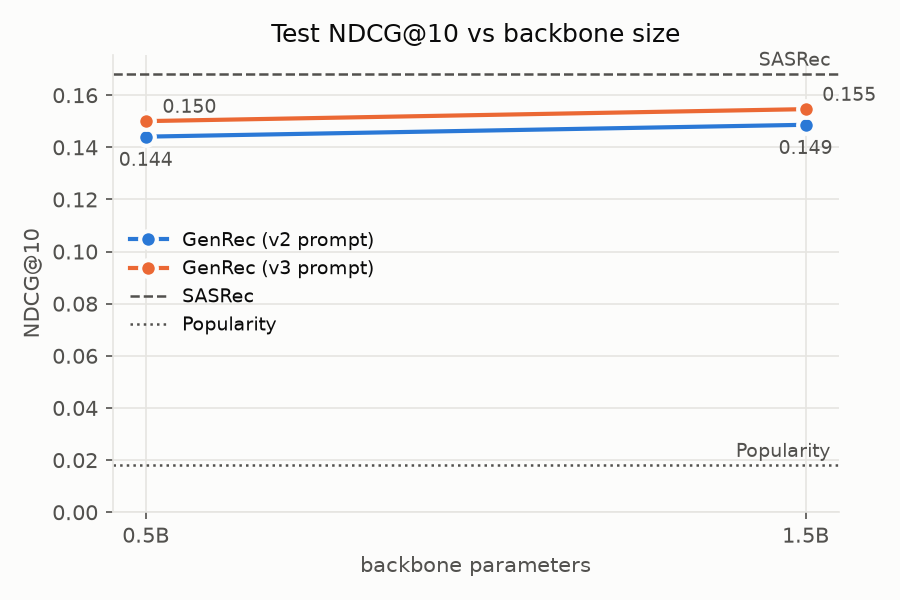
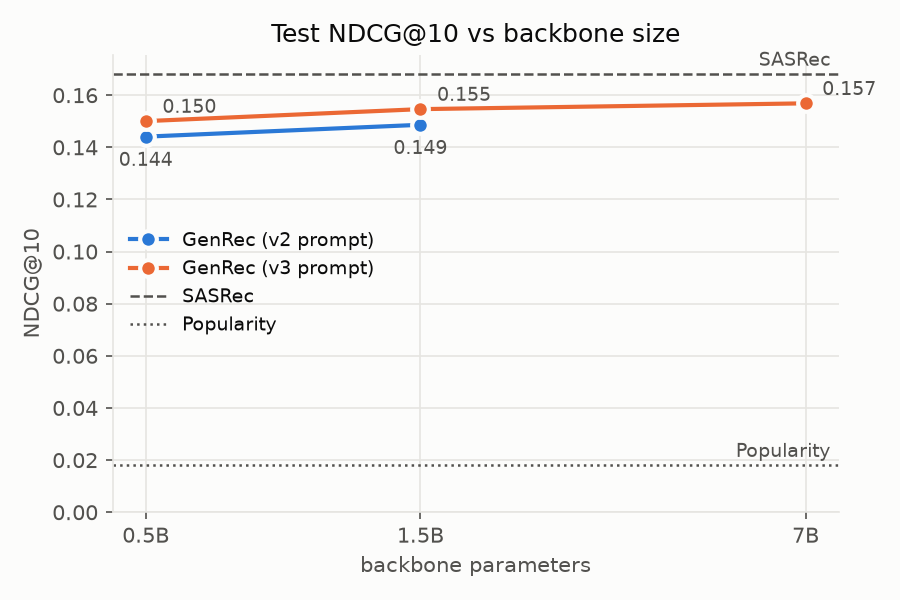
Add synopsis prompt (v5), 7B and rating-weight results
- common.py, genrec.py: --prompt v5 adds the first sentence of the TMDb
  overview for the last 5 movies (Kaggle "The Movies Dataset", not
  committed; download command in SYNOPSIS_HELP)
- plot.py: figures use main runs only (seed 42, no ablation flags)
- docs: 7B v3 result (NDCG@10 0.1569, 2 epochs), rating-weighted loss
  (0.1473, no gain), runs table with synopsis run and ML-25M plan

Changed region(s): [[0.1867, 0.12, 0.9644, 0.27], [0.8711, 0.87, 0.9333, 0.93], [0.4667, 0.87, 0.4978, 0.9]]

diff --git a/genrec.py b/genrec.py
@@ -12,15 +12,21 @@ import torch.nn.functional as F
 from peft import LoraConfig, get_peft_model
 from transformers import AutoModel, AutoTokenizer
 
-from common import evaluate, fmt, load, log_history, machine, pick_device, save_metrics, start_run
+from common import add_synopses, evaluate, fmt, load, log_history, machine, pick_device, save_metrics, start_run
+
+
+SYNOPSIS_LAST = 5  # v5: synopsis only for the most recent movies (token budget)
 
 
 def verbalize(d, items, ratings, n, prompt="v2"):
-    # v2: title + rating; v3: + genres
-    def movie(i, r):
-        genres = f" [{d.movies.genres[i]}]" if prompt == "v3" else ""
-        return f"{d.movies.title[i]}{genres} {r}"
-    movies = "; ".join(movie(i, r) for i, r in zip(items[-n:], ratings[-n:]))
+    # v2: title + rating; v3: + genres; v5: v3 + first-sentence synopsis for the last 5 movies
+    items, ratings = items[-n:], ratings[-n:]
+
+    def movie(k, i, r):
+        genres = f" [{d.movies.genres[i]}]" if prompt in ("v3", "v5") else ""
+        syn = d.movies.synopsis[i] if prompt == "v5" and k >= len(items) - SYNOPSIS_LAST else ""
+        return f"{d.movies.title[i]}{genres} {r}" + (f" ({syn})" if syn else "")
+    movies = "; ".join(movie(k, i, r) for k, (i, r) in enumerate(zip(items, ratings)))
     return f"Watched (rating 1-5): {movies}\nNext:"
 
 
@@ -78,6 +84,8 @@ def train(args):
     device = pick_device(args.device)
     dtype = torch.bfloat16 if device == "cuda" else torch.float32
     d = load()
+    if args.prompt == "v5":
+        add_synopses(d)
     if args.users:
         d.seqs, d.ratings = d.seqs[:args.users], d.ratings[:args.users]
 
@@ -153,7 +161,8 @@ if __name__ == "__main__":
     p.add_argument("--device", choices=["cpu", "mps", "cuda"])
     p.add_argument("--users", type=int, help="subset for quick debugging")
     p.add_argument("--history", type=int, default=20, help="movies in prompt")
-    p.add_argument("--prompt", choices=["v2", "v3"], default="v2", help="v2: title+rating, v3: +genres")
+    p.add_argument("--prompt", choices=["v2", "v3", "v5"], default="v2",
+                   help="v2: title+rating, v3: +genres, v5: v3 + synopsis for last 5 movies")
     p.add_argument("--samples_per_user", type=int, default=16)
     p.add_argument("--epochs", type=int, default=1)
     p.add_argument("--batch_size", type=int, default=8)

diff --git a/common.py b/common.py
@@ -67,9 +67,28 @@ def load(min_len=5):
         n_items=len(movie_ids),
         seqs=groups.item.apply(list).tolist(),
         ratings=groups.rating.apply(list).tolist(),
-        movies=movies[["title", "genres"]],
+        movies=movies[["movie", "title", "genres"]],
     )
 
+
+SYNOPSIS = ROOT / "the-movies-dataset"
+SYNOPSIS_HELP = ("synopses missing: needs a Kaggle token in ~/.kaggle/kaggle.json, then\n"
+                 "  uvx kaggle datasets download rounakbanik/the-movies-dataset -f movies_metadata.csv -p data/the-movies-dataset --unzip\n"
+                 "  uvx kaggle datasets download rounakbanik/the-movies-dataset -f links.csv -p data/the-movies-dataset --unzip")
+
+
+def add_synopses(d):
+    """d.movies.synopsis = first sentence of the TMDb overview (MovieLens id -> TMDb id via links.csv)."""
+    if not (SYNOPSIS / "links.csv").exists() or not (SYNOPSIS / "movies_metadata.csv").exists():
+        raise FileNotFoundError(SYNOPSIS_HELP)
+    links = pd.read_csv(SYNOPSIS / "links.csv").dropna(subset=["tmdbId"])
+    meta = pd.read_csv(SYNOPSIS / "movies_metadata.csv", usecols=["id", "overview"], low_memory=False)
+    meta = meta[pd.to_numeric(meta.id, errors="coerce").notna()].astype({"id": int}).drop_duplicates("id")
+    overview = links.astype({"tmdbId": int}).merge(meta, left_on="tmdbId", right_on="id").set_index("movieId").overview
+    first = overview.fillna("").str.split(r"(?<=[.!?])\s", n=1, regex=True).str[0].str.slice(0, 200)
+    d.movies["synopsis"] = d.movies.movie.map(first).fillna("")
+    print(f"synopses: {(d.movies.synopsis != '').mean():.1%} of {len(d.movies)} movies")
+    return d
 
 
 @torch.no_grad()

diff --git a/plot.py b/plot.py
@@ -1,6 +1,6 @@
 """runs/ -> docs/figures/{curves,scaling}.png
 
-Uses the best full-data run (no --users, by test NDCG@10) per model unless --runs is given.
+Uses the best main run (full data, seed 42, no ablation flags) per model unless --runs is given.
 """
 import argparse
 import csv
@@ -51,7 +51,9 @@ def full_runs():
     best = {}
     for p in sorted(RUNS.glob("*_*")):
         info, _ = read_run(p)
-        if info and not info["args"].get("users"):
+        a = info["args"] if info else {}
+        # main runs only: full data, default seed, no ablation flags (no cherry-picking seeds)
+        if info and not a.get("users") and a.get("seed", 42) == 42 and not a.get("rating_weight"):
             key, score = label(p, info), info["metrics"]["NDCG@10"]
             if key not in best or score > best[key][1]:
                 best[key] = (p, score)

diff --git a/docs/plan.md b/docs/plan.md
@@ -15,6 +15,7 @@ history → text prompt → LLM → h (last token) → score_i = h · e_i → so
   ```
   v2: Watched (rating 1-5): Toy Story (1995) 5; Heat (1995) 3; ...\nNext:          (~270 tokens)
   v3: Watched (rating 1-5): Toy Story (1995) [Animation|Children's|Comedy] 5; ...  (~420 tokens)
+  v5: v3 + first synopsis sentence (TMDb, via Kaggle "The Movies Dataset") for the last 5 movies  (~550 tokens)
   ```
 
 ## Model
@@ -74,8 +75,8 @@ Run: `uv run python {common,sasrec,genrec}.py`
 | 2 | Baselines: Popularity, SASRec | ✅ SASRec NDCG@10 0.168 |
 | 3 | Pipeline on small subset (CPU/MPS) | ✅ |
 | 4 | First GPU run: 0.5B + LoRA | ✅ beats Popularity |
-| 5 | Ablations | 🔄 prompt v2→v3 ✅ (+4%); history length, rating weights ⬜ |
-| 6 | Scaling: 0.5B → 1.5B → 3B → 7B | 🔄 0.5B, 1.5B ✅ (+7%); 1.5B v3 ✅ (0.1546); 7B next; 3B queued |
+| 5 | Ablations | 🔄 prompt v2→v3 ✅ (+4%); rating weights ✅ (no gain); history length ⬜ |
+| 6 | Scaling: 0.5B → 1.5B → 3B → 7B | 🔄 0.5B, 1.5B ✅ (+7%); 1.5B v3 ✅ (0.1546); 7B ✅ (0.1569, 2 ep); 3B queued |
 | 7 | Data scaling on ML-25M (separate benchmark) | ⬜ after current queue |
 | 8 | README: results + reproduce | ⬜ |
 
@@ -91,23 +92,24 @@ Machines: **RunPod** = RTX 4090 Secure ($0.74/h) or A100 80GB (~$1.4–1.6/h) ·
 | 5 | 1.5B v2, 3 ep, lr 1e-4 | ✅ | RunPod 4090 | 99 min | $1.40 | 0.1486 |
 | 6 | 0.5B v2, 3 ep, lr 1e-4 | ✅ | RunPod 4090 | 74 min | $1.00 | 0.1386 |
 | 7 | 0.5B v3, 3 ep, lr 2e-4 | ✅ | RunPod 4090 | 78 min | $1.30 | 0.1500 |
-| 8 | 1.5B v3, 3 ep, lr 1e-4 | ✅ best | RunPod 4090 | 3.4 h | $2.50 (+$0.85 failed pod) | **0.1546** |
-| 9 | 7B v3, 2 ep, lr 5e-5 | 🔄 running | RunPod A100 80GB | ~6.3 h | ~$10.50 (+$0.65 crashed start) | – |
+| 8 | 1.5B v3, 3 ep, lr 1e-4 | ✅ | RunPod 4090 | 3.4 h | $2.50 (+$0.85 failed pod) | 0.1546 |
+| 9 | 7B v3, 2 ep, lr 5e-5 | ✅ best | RunPod A100 80GB | 6.1 h | $9.60 (+$0.65 crashed start) | **0.1569** |
 | 10 | 0.5B v3, seed 43 (noise check) | ✅ | WSL | 3.4 h | $0 | 0.1558 |
 | 11 | 0.5B v3, history 50 (`--grad_ckpt`) | ⏳ queued (4th) | WSL | ~10–12 h | $0 | – |
-| 12 | 0.5B v3, rating-weighted loss | 🔄 running | WSL | ~4 h | $0 | – |
-| 13 | 1.5B v3, 5 ep | ⏳ queued (3rd) | WSL | ~14 h | $0 | – |
-| 14 | 3B v3, 3 ep (`--grad_ckpt`) | ⏳ queued (5th) | WSL | ~17 h | $0 | – |
+| 12 | 0.5B v3, rating-weighted loss | ✅ no gain | WSL | 4.0 h | $0 | 0.1473 |
+| 13 | 1.5B v3, 5 ep | 🔄 running | WSL | ~14 h | $0 | – |
+| 14 | 0.5B v5 (v3 + synopsis, last 5 movies), 3 ep | ⏳ queued (5th) | WSL | ~5 h | $0 | – |
+| 15 | 3B v3, 3 ep (`--grad_ckpt`) | ⏳ queued (6th) | WSL | ~17 h | $0 | – |
 
 ### Planned: ML-25M data scaling (step 7)
 Fixed model (0.5B v3), vary #users sampled from ML-25M; SASRec at each size. Eval on a fixed random 10k-user subset; full catalog (~59k movies). Not comparable to ML-1M numbers.
 
 | # | Run | Status | Machine | Time | Cost | Test NDCG@10 |
 |---|---|---|---|---|---|---|
-| 15 | Code: ML-25M loader, `--dataset`, user subsample, eval subset | ⬜ | – | – | – | – |
-| 16 | SASRec, 10k / 40k / 160k users | ⬜ | WSL | ~1–3 h total | $0 | – |
-| 17 | GenRec 0.5B v3, 10k users | ⬜ | WSL | ~5 h (3 ep) | $0 | – |
-| 18 | GenRec 0.5B v3, 40k users | ⬜ | WSL | ~21 h (3 ep) | $0 | – |
-| 19 | GenRec 0.5B v3, 160k users (optional) | ⬜ | WSL / RunPod | ~28 h/epoch WSL | $0 / ~$8/epoch | – |
+| 16 | Code: ML-25M loader, `--dataset`, user subsample, eval subset | ⬜ | – | – | – | – |
+| 17 | SASRec, 10k / 40k / 160k users | ⬜ | WSL | ~1–3 h total | $0 | – |
+| 18 | GenRec 0.5B v3, 10k users | ⬜ | WSL | ~5 h (3 ep) | $0 | – |
+| 19 | GenRec 0.5B v3, 40k users | ⬜ | WSL | ~21 h (3 ep) | $0 | – |
+| 20 | GenRec 0.5B v3, 160k users (optional) | ⬜ | WSL / RunPod | ~28 h/epoch WSL | $0 / ~$8/epoch | – |
 
 Results → [results.md](results.md)

diff --git a/docs/results.md b/docs/results.md
@@ -8,6 +8,7 @@ MovieLens-1M · leave-one-out · test split · full catalog (3,706 items, seen i
 | **SASRec** | **0.1454** | **0.2942** | **0.1681** | – | 15.8 min | Apple M1 (MPS) | – |
 | GenRec (Qwen2.5-0.5B, v3 prompt) | 0.1295 | 0.2641 | 0.1500 | −11% | 77.9 min | RTX 4090 (CUDA) | ~$1.30 |
 | GenRec (Qwen2.5-1.5B, v3 prompt) | 0.1347 | 0.2669 | 0.1546 | −8% | 193.0 min | RTX 4090 (CUDA) | ~$2.50 |
+| GenRec (Qwen2.5-7B, v3 prompt, 2 ep) | 0.1369 | 0.2692 | 0.1569 | −7% | 355.2 min | A100 80GB (CUDA) | ~$9.60 |
 
 ## Figures
 Generated by `uv run python plot.py` from `runs/`.
@@ -31,5 +32,7 @@ Generated by `uv run python plot.py` from `runs/`.
 - SASRec run-to-run variation on MPS (same seed): NDCG@10 0.1681 / 0.1701
 - Same-settings comparisons (test NDCG@10): 0.5B v2 → v3: 0.1441 → 0.1500 (+4%); 0.5B → 1.5B (v2, lr 1e-4): 0.1386 → 0.1486 (+7%); 1.5B v2 → v3: 0.1486 → 0.1546 (+4%)
 - Seed variance: 0.5B v3 seed 42 / 43 → 0.1500 / 0.1558 (±2% around 0.153). Gains under ~4% are within noise; the +4% prompt gain is not yet significant
+- Rating-weighted loss (paper's "reward" weighting), 0.5B v3: 0.1473 — no gain (−4% vs seed mean 0.153); metric counts the next rating regardless of its value
+- 7B: 2 epochs (cost), lr 5e-5, 10% warmup, `--grad_ckpt`. Valid NDCG@10 vs 1.5B v3 at the same epoch: +7% (ep1), +8% (ep2); test vs 1.5B v3 at 3 epochs: +1.5%
 - Warmup + grad clip are required: without them training can collapse to popularity-level
 - Timestamps are noisy: 52.9% of consecutive ratings share a timestamp → low ceiling for next-item metrics
